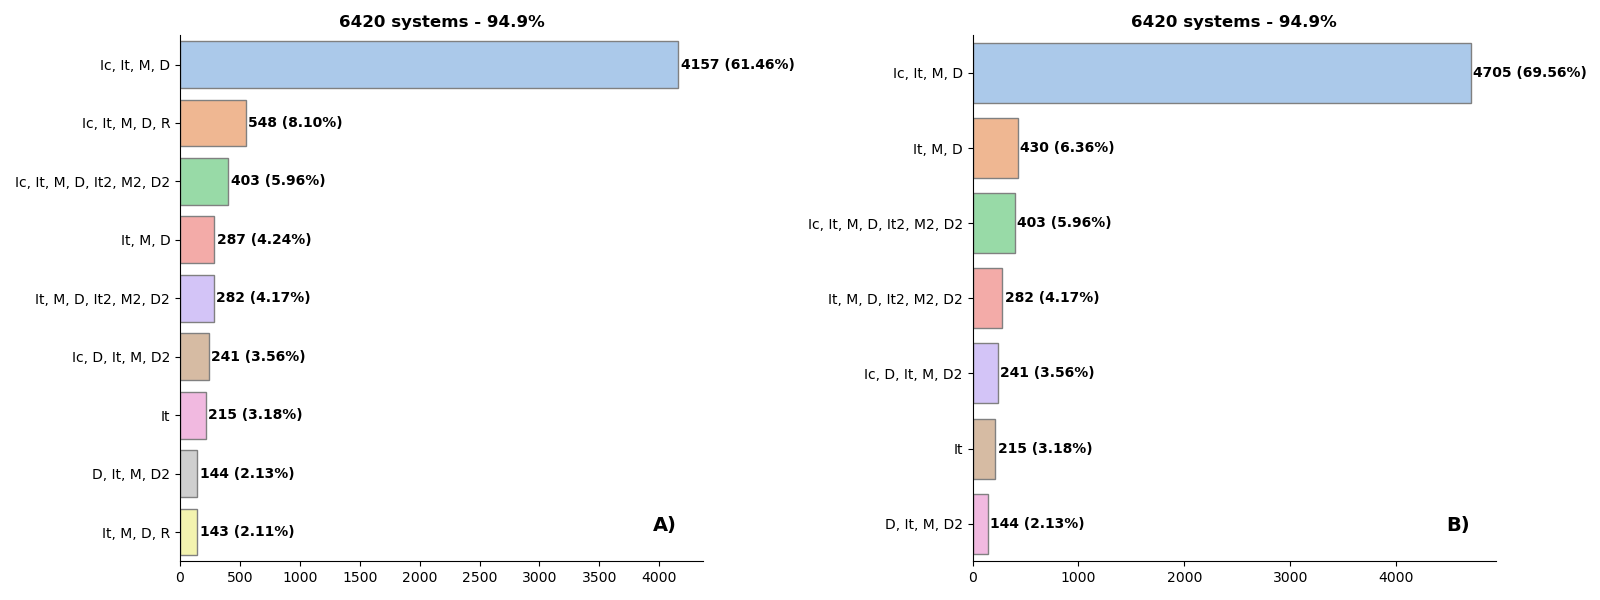
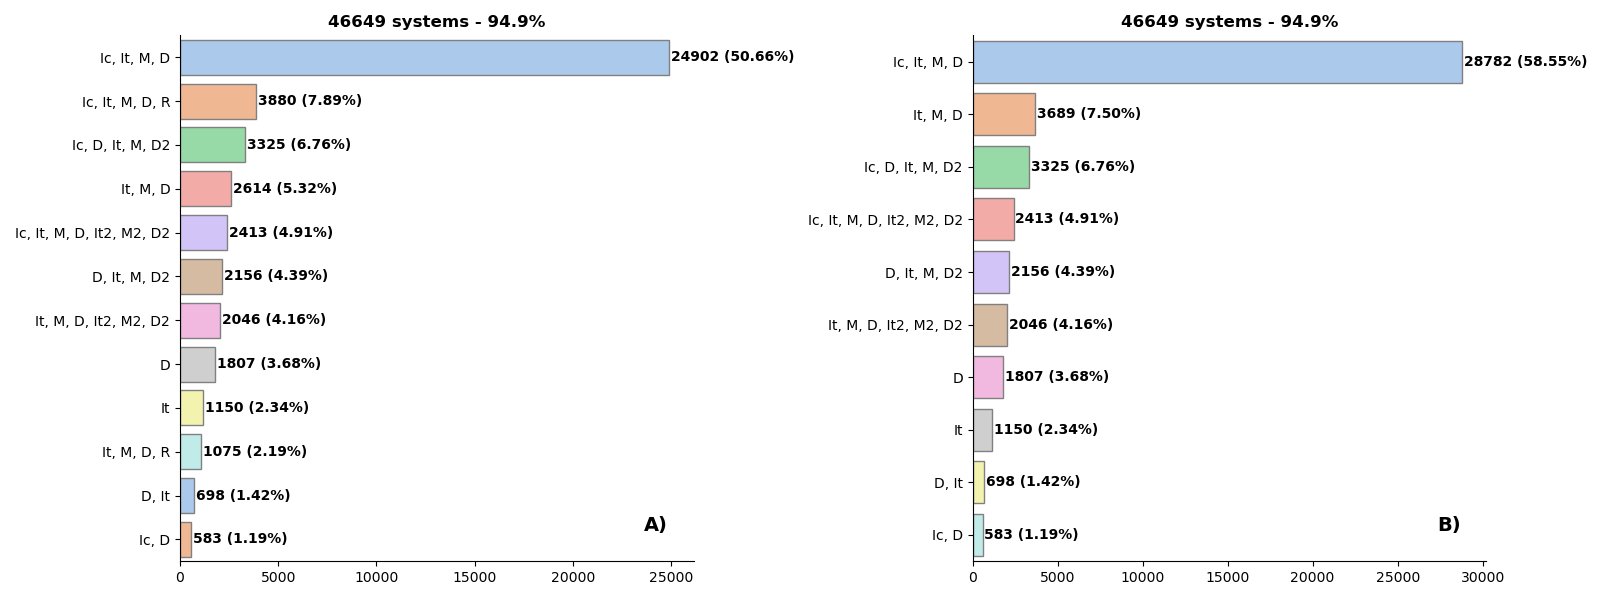
UPdate for all systems

diff --git a/src_manuscript_life-cycle/barplot_statistics.py b/src_manuscript_life-cycle/barplot_statistics.py
@@ -57,9 +57,9 @@ def plot_barplot(df, label, ax, filter=False):
     for index, value in enumerate(df['Total Count']):
         percentage = df.loc[df.index[index], 'Percentage']
         if orient == 'h':
-            ax.text(value + 20, index, f"{value} ({percentage:.2f}%)", va='center', color='black', fontweight='bold')
+            ax.text(value + 100, index, f"{value} ({percentage:.2f}%)", va='center', color='black', fontweight='bold')
         else:
-            ax.text(index, value + 20, f"{value} ({percentage:.2f}%)", ha='center', color='black', fontweight='bold')
+            ax.text(index, value + 100, f"{value} ({percentage:.2f}%)", ha='center', color='black', fontweight='bold')
 
     ax.set_xlabel(None)
     ax.set_ylabel(None)
@@ -86,7 +86,7 @@ output_directory = '../figures/manuscript_life-cycle/'
 os.makedirs(output_directory, exist_ok=True)
 
 # Read data from CSV file
-df = pd.read_csv('../periods_species_statistics/count_systems_raw/total_count_of_systems_all_RG.csv')
+df = pd.read_csv('../periods_species_statistics/all/count_systems_raw/total_count_of_systems.csv')
 
 # df with all possible phases
 df = df.sort_values(by='Total Count', ascending=False)
